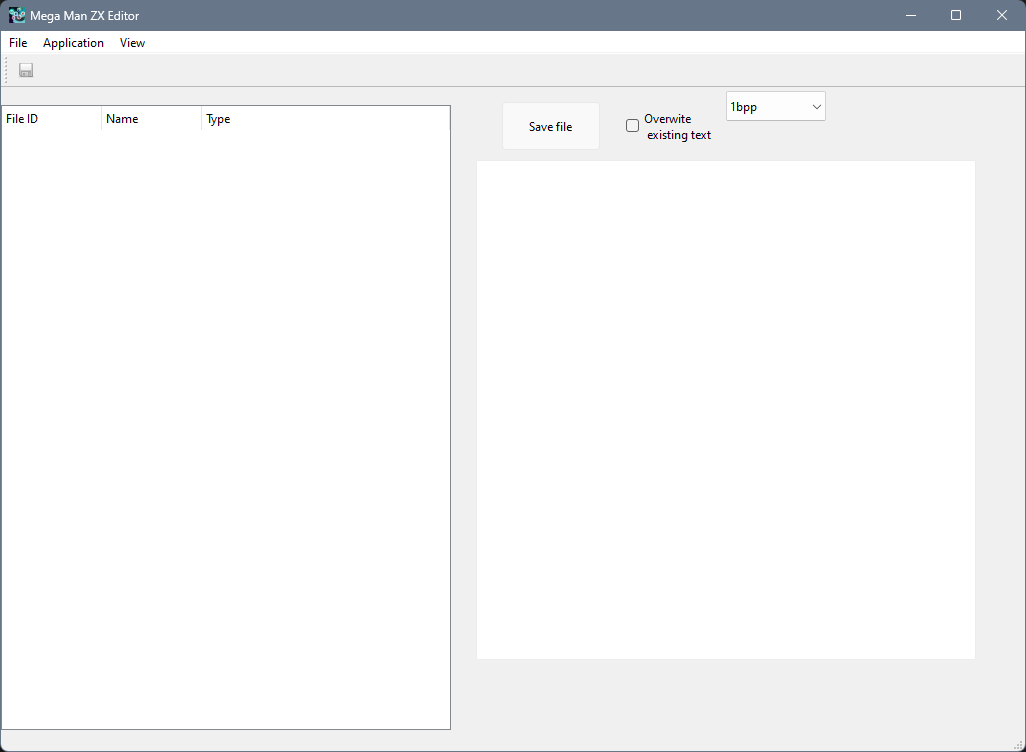
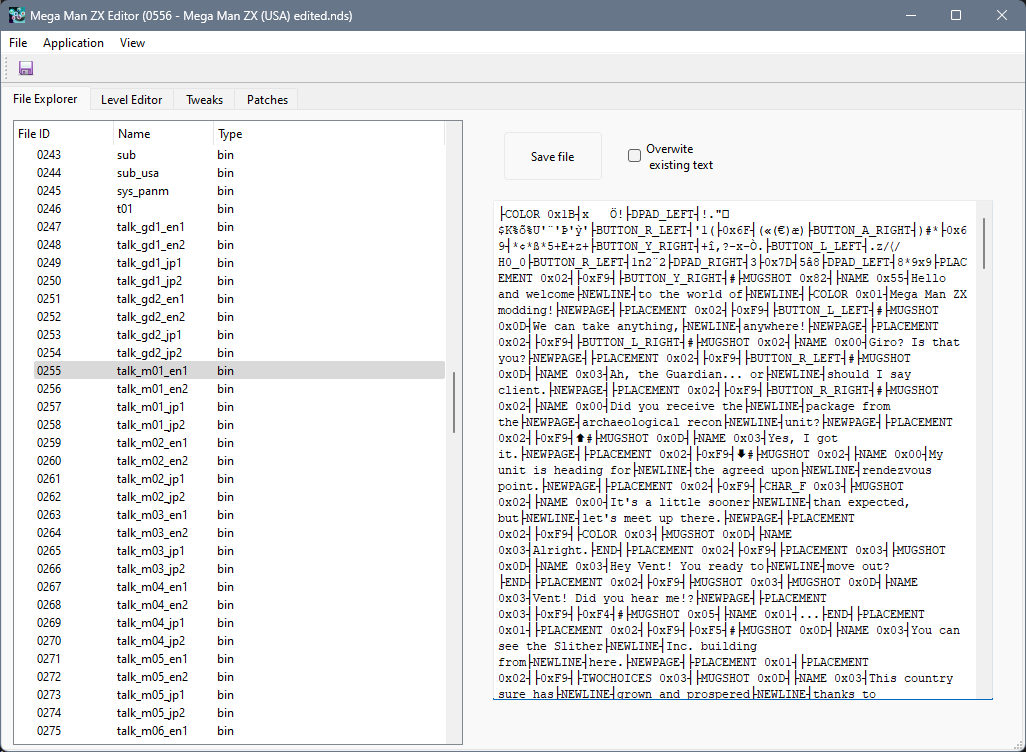
Tabs, game recognition, and more
- Tabs were added for the future level editor, tweaks, and patcher features.
- Editor can open files from other directories without crashing
- Editor detects what game you have(also shown in window title) opened and shows you a warning if it is not supported.
- WIP patches system
- Clarifications in dataconverter

diff --git a/MME_NDS.py b/MME_NDS.py
@@ -3,7 +3,7 @@ import PyQt6.QtGui, PyQt6.QtWidgets, PyQt6.QtCore
 import sys, os
 import ndspy
 import ndspy.rom, ndspy.code
-import dataconverter, init_readwrite
+import dataconverter, patchdata, init_readwrite
 
 class GFXView(PyQt6.QtWidgets.QGraphicsView):
     def __init__(self, *args, **kwargs):
@@ -334,6 +334,7 @@ class MainWindow(PyQt6.QtWidgets.QMainWindow):
 
         #Toolbar
         self.toolbar = PyQt6.QtWidgets.QToolBar("Main Toolbar")
+        self.toolbar.setMaximumHeight(30)
         self.addToolBar(self.toolbar)
 
         self.button_save = PyQt6.QtGui.QAction(PyQt6.QtGui.QIcon('icon_disk.png'), "Save to ROM", self)
@@ -346,24 +347,45 @@ class MainWindow(PyQt6.QtWidgets.QMainWindow):
         #self.button_codeedit.setDisabled(True)
         self.toolbar.addActions([self.button_save])
 
+        #Tabs
+        self.tabs = PyQt6.QtWidgets.QTabWidget(self)
+        self.tabs.setGeometry(0, 55, self.width(), self.height() - 55)
+
+        self.page_explorer = PyQt6.QtWidgets.QWidget(self.tabs)
+        self.page_explorer.setLayout(PyQt6.QtWidgets.QGridLayout())
+
+        self.page_leveleditor = PyQt6.QtWidgets.QWidget(self.tabs)
+        self.page_leveleditor.setLayout(PyQt6.QtWidgets.QGridLayout())
+
+        self.page_tweaks = PyQt6.QtWidgets.QWidget(self.tabs)
+        self.page_tweaks.setLayout(PyQt6.QtWidgets.QGridLayout())
+
+        self.page_patches = PyQt6.QtWidgets.QWidget(self.tabs)
+        self.page_patches.setLayout(PyQt6.QtWidgets.QGridLayout())
+
+        self.tabs.addTab(self.page_explorer, "File Explorer")
+        self.tabs.addTab(self.page_leveleditor, "Level Editor") # Coming Soon™
+        self.tabs.addTab(self.page_tweaks, "Tweaks") # Coming Soon™
+        self.tabs.addTab(self.page_patches, "Patches") # Coming Soon™
+
         #ROM-related
-        self.tree = EditorTree(self)
-        self.tree.move(0, self.menu_bar.rect().bottom() + 45)
-        self.tree.resize(450, 625)
+        #File explorer
+        self.tree = EditorTree(self.page_explorer)
+        self.tree.setGeometry(10, self.menu_bar.rect().bottom() - 20, 450, 625)
         self.tree.setColumnCount(3)
         self.tree.setHeaderLabels(["File ID", "Name", "Type"])
         self.tree.setContextMenuPolicy(PyQt6.QtCore.Qt.ContextMenuPolicy.CustomContextMenu)
         self.treeUpdate()
         self.tree.itemSelectionChanged.connect(self.treeCall)
 
-        self.button_file_save = PyQt6.QtWidgets.QPushButton("Save file", self)
+        self.button_file_save = PyQt6.QtWidgets.QPushButton("Save file", self.page_explorer)
         self.button_file_save.setToolTip("save this file's changes")
-        self.button_file_save.setGeometry(500, 70, 100, 50)
+        self.button_file_save.setGeometry(500, 20, 100, 50)
         self.button_file_save.pressed.connect(self.save_filecontent)
         self.button_file_save.setDisabled(True)
 
-        self.file_content = PyQt6.QtWidgets.QFrame(self)
-        self.file_content.setGeometry(475, self.menu_bar.rect().bottom() + 110, 500, 500)
+        self.file_content = PyQt6.QtWidgets.QFrame(self.page_explorer)
+        self.file_content.setGeometry(490, self.menu_bar.rect().bottom() + 60, 500, 500)
         self.file_content_text = PyQt6.QtWidgets.QPlainTextEdit(self.file_content)
         self.file_content_text.resize(self.file_content.size())
         font = PyQt6.QtGui.QFont("Monospace")
@@ -371,8 +393,8 @@ class MainWindow(PyQt6.QtWidgets.QMainWindow):
         self.file_content_text.setFont(font)
         self.file_content_text.textChanged.connect(lambda: self.button_file_save.setDisabled(False))
         self.file_content_text.setDisabled(True)
-        self.checkbox_textoverwite = PyQt6.QtWidgets.QCheckBox("Overwite\n existing text", self)
-        self.checkbox_textoverwite.setGeometry(625, 70, 100, 50)
+        self.checkbox_textoverwite = PyQt6.QtWidgets.QCheckBox("Overwite\n existing text", self.page_explorer)
+        self.checkbox_textoverwite.setGeometry(625, 20, 100, 50)
         self.checkbox_textoverwite.setStatusTip("With this enabled, writing text won't change filesize")
         self.checkbox_textoverwite.clicked.connect(lambda: self.file_content_text.setOverwriteMode(not self.file_content_text.overwriteMode()))
         self.checkbox_textoverwite.hide()
@@ -386,10 +408,9 @@ class MainWindow(PyQt6.QtWidgets.QMainWindow):
         self.file_content_gfx = GFXView(self.file_content)
         self.file_content_gfx.resize(self.file_content.size())
         self.file_content_gfx.hide()
-        self.dropdown_gfx_depth = PyQt6.QtWidgets.QComboBox(self)
-        self.dropdown_gfx_depth.setGeometry(725, 60, 125, 25)
-        self.dropdown_gfx_depth.addItems(["1bpp", "1bpp(WIP JP 16x16)", "4bpp", "8bpp"])
-        #self.dropdown_gfx_depth.item
+        self.dropdown_gfx_depth = PyQt6.QtWidgets.QComboBox(self.page_explorer)
+        self.dropdown_gfx_depth.setGeometry(725, 10, 125, 25)
+        self.dropdown_gfx_depth.addItems(["1bpp", "1bpp(WIP JP 16x16)", "4bpp", "8bpp"])# order of names is determined by the enum in dataconverter
         self.dropdown_gfx_depth.currentTextChanged.connect(self.treeCall)# Update gfx with current depth
         self.dropdown_gfx_depth.hide()
 
@@ -397,8 +418,8 @@ class MainWindow(PyQt6.QtWidgets.QMainWindow):
         self.font_caps.setCapitalization(PyQt6.QtGui.QFont.Capitalization.AllUppercase)
         
         # Address bar
-        self.field_address = AddressSpinBox(self)
-        self.field_address.setGeometry(850, 60, 100, 25)
+        self.field_address = AddressSpinBox(self.page_explorer)
+        self.field_address.setGeometry(850, 10, 100, 25)
         self.field_address.setFont(self.font_caps)
         self.field_address.setValue(self.base_address+self.relative_adress)
         self.field_address.setPrefix("0x")
@@ -407,23 +428,53 @@ class MainWindow(PyQt6.QtWidgets.QMainWindow):
         self.field_address.hide()
         # Tiles Per row
         self.tiles_per_row = 8
-        self.field_tiles_per_row = PyQt6.QtWidgets.QSpinBox(self)
-        self.field_tiles_per_row.setGeometry(850, 100, 50, 25)
+        self.field_tiles_per_row = PyQt6.QtWidgets.QSpinBox(self.page_explorer)
+        self.field_tiles_per_row.setGeometry(850, 50, 50, 25)
         self.field_tiles_per_row.setFont(self.font_caps)
         self.field_tiles_per_row.setValue(self.tiles_per_row)
         self.field_tiles_per_row.setDisplayIntegerBase(10)
         self.field_tiles_per_row.valueChanged.connect(lambda: self.value_update_Call("tiles_per_row", int(f"{self.field_tiles_per_row.text():01}"), True))
         self.field_tiles_per_row.hide()
         # Tiles Per Column
-        self.tiles_per_column = 8
-        self.field_tiles_per_column = PyQt6.QtWidgets.QSpinBox(self)
-        self.field_tiles_per_column.setGeometry(900, 100, 50, 25)
+        self.tiles_per_column = 16
+        self.field_tiles_per_column = PyQt6.QtWidgets.QSpinBox(self.page_explorer)
+        self.field_tiles_per_column.setGeometry(900, 50, 50, 25)
         self.field_tiles_per_column.setFont(self.font_caps)
         self.field_tiles_per_column.setValue(self.tiles_per_column)
         self.field_tiles_per_column.setDisplayIntegerBase(10)
         self.field_tiles_per_column.valueChanged.connect(lambda: self.value_update_Call("tiles_per_column", int(f"{self.field_tiles_per_column.text():01}"), True))
         self.field_tiles_per_column.hide()
-        # Shortcuts
+
+        #Level Editor(Coming Soon™)
+        #Tweaks(Coming Soon™)
+        self.tabs_tweaks = PyQt6.QtWidgets.QTabWidget(self.page_tweaks)
+
+        self.tabs_tweaks.setGeometry(0, 0, self.width(), self.height() - 55)
+
+        self.page_tweaks_stats = PyQt6.QtWidgets.QWidget(self.tabs_tweaks)
+        self.page_tweaks_stats.setLayout(PyQt6.QtWidgets.QGridLayout())
+
+        self.page_tweaks_physics = PyQt6.QtWidgets.QWidget(self.tabs_tweaks)
+        self.page_tweaks_physics.setLayout(PyQt6.QtWidgets.QGridLayout())
+
+        self.page_tweaks_animations = PyQt6.QtWidgets.QWidget(self.tabs_tweaks)
+        self.page_tweaks_animations.setLayout(PyQt6.QtWidgets.QGridLayout())
+
+        self.page_tweaks_misc = PyQt6.QtWidgets.QWidget(self.tabs_tweaks)
+        self.page_tweaks_misc.setLayout(PyQt6.QtWidgets.QGridLayout())
+
+        self.tabs_tweaks.addTab(self.page_tweaks_stats, "Stats")
+        self.tabs_tweaks.addTab(self.page_tweaks_physics, "Physics")
+        self.tabs_tweaks.addTab(self.page_tweaks_animations, "Animations")
+        self.tabs_tweaks.addTab(self.page_tweaks_misc, "Misc.")
+
+        #Patches(Coming Soon™)
+        self.tree_patches = EditorTree(self.page_patches)
+        self.tree_patches.setGeometry(10, self.menu_bar.rect().bottom() - 20, self.width() - 25, 625)
+        self.tree_patches.setColumnCount(4)
+        self.tree_patches.setHeaderLabels(["Enabed", "Address", "Name", "Type", "Size"])
+        self.tree_patches.itemChanged.connect(self.patch_game)
+        #Shortcuts
         #PyQt6.QtWidgets.QKeySequenceEdit()
 
         self.setStatusBar(PyQt6.QtWidgets.QStatusBar(self))
@@ -445,13 +496,29 @@ class MainWindow(PyQt6.QtWidgets.QMainWindow):
             options=PyQt6.QtWidgets.QFileDialog.Option.DontUseNativeDialog,
         )
         if not fname == ("", ""): # if file you're trying to open is not none
-            self.romToEdit_name = fname[0].split("/")[len(fname[0].split("/")) - 1].split(".")[0]
-            self.romToEdit_ext = "." + fname[0].split("/")[len(fname[0].split("/")) - 1].split(".")[1]
-            self.rom = ndspy.rom.NintendoDSRom.fromFile(self.romToEdit_name + self.romToEdit_ext)
+            self.romToEdit_name = fname[0].split("/")[len(fname[0].split("/")) - 1].rsplit(".", 1)[0]
+            self.romToEdit_ext = "." + fname[0].split("/")[len(fname[0].split("/")) - 1].rsplit(".", 1)[1]
+            self.rom = ndspy.rom.NintendoDSRom.fromFile(fname[0])
             self.arm9 = self.rom.loadArm9()
             self.arm7 = self.rom.loadArm7()
-            self.setWindowTitle("Mega Man ZX Editor" + " (" + self.romToEdit_name + self.romToEdit_ext + ")")
+            self.setWindowTitle("Mega Man ZX Editor" + " [ " + self.romToEdit_name + self.romToEdit_ext + " ( " + self.rom.name.decode() + " ) " + " ]")
             print(self.rom.filenames)
+            self.tree_patches.clear()
+            patches = []
+            if self.rom.name.decode().replace(" ", "_") in patchdata.GameEnum.__members__:
+                for patch in patchdata.GameEnum[self.rom.name.decode().replace(" ", "_")].value[1]:
+                    #PyQt6.QtWidgets.QTreeWidgetItem(None, ["", "<address>", "<patch name>", "<patch type>", "<size>"])
+                    patch_item = PyQt6.QtWidgets.QTreeWidgetItem(None, ["", "0x" + f"{patch[0]:08X}", patch[1], patch[2], "0x" + f"{len(patch[4]):01X}"])
+                    patches.append(patch_item)
+                    patch_item.setFlags(patch_item.flags() | PyQt6.QtCore.Qt.ItemFlag.ItemIsUserCheckable)
+                    patch_item.setCheckState(0, PyQt6.QtCore.Qt.CheckState.Unchecked)
+                self.tree_patches.addTopLevelItems(patches)
+            else:
+                print("ROM is NOT supported! Continue at your own risk!")
+                dialog = PyQt6.QtWidgets.QMessageBox(self)
+                dialog.setWindowTitle("Warning!")
+                dialog.setText("Game \"" + self.rom.name.decode() + "\" is NOT supported! Continue at your own risk!")
+                dialog.exec()
             self.importSubmenu.setDisabled(False)
             self.button_save.setDisabled(False)
             #self.button_codeedit.setDisabled(False)
@@ -638,7 +705,7 @@ class MainWindow(PyQt6.QtWidgets.QMainWindow):
                         self.file_editor_show("Text")
                         self.file_content_text.setPlainText(dataconverter.convertdata_bin_to_text(self.rom.files[int(self.tree.currentItem().text(0))]))
                     elif (self.fileDisplayMode == "Graphics") or (self.fileDisplayMode == "Adapt" and (self.tree.currentItem().text(1).find("obj_fnt") != -1 or self.tree.currentItem().text(1).find("font") != -1 or self.tree.currentItem().text(1).find("face") != -1)):
-                        print(self.dropdown_gfx_depth.currentText()[:1] + " bpp graphics")
+                        #print(self.dropdown_gfx_depth.currentText()[:1] + " bpp graphics")
                         self.file_content_gfx.resetScene()
                         if not isValueUpdate:
                             self.file_editor_show("Graphics")
@@ -720,6 +787,9 @@ class MainWindow(PyQt6.QtWidgets.QMainWindow):
             w.rom.files[int(self.tree.currentItem().text(0))] = bytearray.fromhex(self.file_content_text.toPlainText())
         print("file changes saved")
         self.button_file_save.setDisabled(True)
+
+    def patch_game(self):
+        print("patch")
 
 app = PyQt6.QtWidgets.QApplication(sys.argv)
 w = MainWindow()

diff --git a/dataconverter.py b/dataconverter.py
@@ -299,21 +299,18 @@ def convertdata_bin_to_qt(binary_data: bytearray, palette=[0xff000000+((0x0b7421
     
     match algorithm:
         case CompressionAlgorithmEnum.ONEBPP: # For english 8x16 font
-            for pixel_index in range(len(str_subgroups(file_bits, algorithm.depth))):
+            for pixel_index in range(0, len(str_subgroups(file_bits, algorithm.depth))):
                 if pixel_index < tileWidth*tileHeight:
                     x = int((tileWidth-1) - (pixel_index % tileWidth)) # x is reverse-order
                     y = int(pixel_index / tileWidth)
                     image_widget.setPixel(x, y, int(str_subgroups(file_bits, algorithm.depth)[pixel_index], 2))
-        case CompressionAlgorithmEnum.ONEBPP_JP:# For japanese 16x16 font
-            for pixel_index in range(len(str_subgroups(file_bits, algorithm.depth))):
+        case CompressionAlgorithmEnum.ONEBPP_JP:# For japanese 16x16 font (WIP)
+            for pixel_index in range(0, len(str_subgroups(file_bits, algorithm.depth))):
                 if pixel_index < tileWidth*tileHeight:
-                    x = int((tileWidth-1)-1 - (pixel_index % tileWidth)) # x is reverse-order and starts one pixel off
+                    x = int((tileWidth-1) - (pixel_index % tileWidth)) # x is reverse-order and starts one pixel off
                     y = int(pixel_index / tileWidth)#(tileWidth*2))
-                    if x < 0:
-                        x = int(tileWidth-1)
-                        y = max(0, y - 1)
                     image_widget.setPixel(x, y, int(str_subgroups(file_bits, algorithm.depth)[pixel_index], 2))
-        case CompressionAlgorithmEnum.FOURBPP: # GBA 4bpp
+        case CompressionAlgorithmEnum.FOURBPP: # NDS/GBA 4bpp
             for pixel_index in range(0, len(str_subgroups(file_bits, algorithm.depth)), 2):
                 #print(str_subgroups(file_bits, 4)[pixel_index])
                 if pixel_index < tileWidth*tileHeight:
@@ -321,7 +318,7 @@ def convertdata_bin_to_qt(binary_data: bytearray, palette=[0xff000000+((0x0b7421
                     y = int(pixel_index / tileWidth)
                     image_widget.setPixel(x, y, int(str_subgroups(file_bits, algorithm.depth)[pixel_index+1], 2))
                     image_widget.setPixel(x+1, y, int(str_subgroups(file_bits, algorithm.depth)[pixel_index], 2))
-        case CompressionAlgorithmEnum.EIGHTBPP: # GBA 8bpp
+        case CompressionAlgorithmEnum.EIGHTBPP: # NDS/GBA 8bpp
             for pixel_index in range(0, len(str_subgroups(file_bits, algorithm.depth))):
                 #print(str_subgroups(file_bits, 4)[pixel_index])
                 if pixel_index < tileWidth*tileHeight:

diff --git a/patchdata.py b/patchdata.py
@@ -1,0 +1,15 @@
+import enum
+
+class GameEnum(enum.Enum):
+
+  def __init__(self, id, patches):
+      self.id = id
+      self.patches = patches
+
+  MEGAMANZX = enum.auto(), [
+    #Address, Name, Type, OGData, NewData
+    [0x00000000, "enum is working", "text", b'', b''],
+    [0x00000000, "patch test1", "text", b'0', b'0'],
+    [0x00000000, "patch test2", "text", b'00', b'00']
+  ]
+  MEGAMANZXA = enum.auto(), []

diff --git a/README.md b/README.md
@@ -22,7 +22,8 @@ For now, I'm making the graphics viewer(and eventually editor).
 - OAM Editor*
 - Sound/Music Editor*
 - Movie Editor*
-- Physics Editor*
+- List of togglable patches
+- Tweaks/Physics Editor*
 - Level Editor*
 - Game Logic Editor*
 
